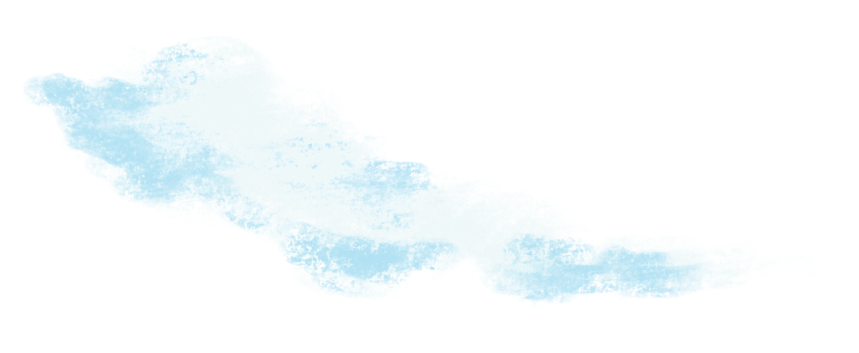
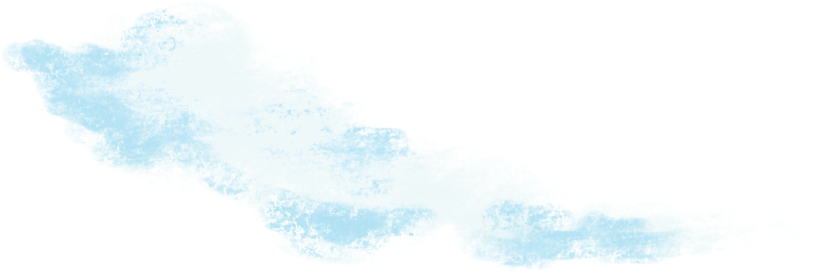
レスポンシブ対応

diff --git a/css/style.css b/css/style.css
@@ -286,31 +286,107 @@
     .zentai {
         width: 100%;
         position: relative;
+        height: 100%;
     }
     .background {
-        width: 100%;
-    }
-    .cloud-top-right {
-        position: absolute;
-    }
-    .museum {
-        padding: 0;
         width: 100%;
         position: absolute;
         bottom: 0;
     }
-    .button {
-        width: 30%;
+    .cloud-top-right {
         position: absolute;
-        bottom: 3%;
+        width: 40%;
+        top: 0;
+        right: 0;
+        animation: top-right 2s infinite;
+        animation-delay: 0s;
+    }
+    @keyframes top-right {
+        0% {
+            transform: translateY(0)
+        }
+        50% {
+            transform: translateY(-10px)
+        }
+        100% {
+            transform: translateY(0)
+        }
+    }
+    .cloud-top-left {
+        position: absolute;
+        width: 50%;
+        top: 10%;
+        left: 0;
+        animation: top-right 3s infinite;
+        animation-delay: 0s;
+    }
+    .cloud-bottom-right {
+        position: absolute;
+        width: 30%;
+        top: 35%;
+        right: 12%;
+        animation: top-right 4s infinite;
+        animation-delay: 0s;
+    }
+    .cloud-bottom-left {
+        position: absolute;
+        width: 40%;
+        top: 50%;
+        left: 0;
+        animation: top-right 5s infinite;
+        animation-delay: 0s;
+    }
+    .museum {
+        padding: 0;
+        width: 70%;
+        position: absolute;
+        bottom: 11%;
+        left: 50%;
+        transform: translateX(-50%);
+        -webkit-transform: translateX(-50%);
+        -ms-transform: translateX(-50%);
+    }
+    .kanban {
+        /* opacity: 0; */
+        padding: 0;
+        width: 36%;
+        position: absolute;
+        bottom: 22.7%;
+        left: 50%;
+        transform: translateX(-50%);
+        -webkit-transform: translateX(-50%);
+        -ms-transform: translateX(-50%);
+        animation: kanban 2s infinite;
+    }
+    @keyframes kanban {
+        0% {
+            filter: brightness(1);
+        }
+        20% {
+            filter: brightness(1.2);
+        }
+        40% {
+            filter: brightness(1);
+        }
+        60% {
+            filter: brightness(1.2);
+        }
+        100% {
+            filter: brightness(1);
+        }
+    }
+    .button {
+        width: 20%;
+        position: absolute;
+        bottom: 2%;
         left: 50%;
         transform: translateX(-50%);
     }
     .pricetar {
         position: absolute;
         bottom: 10%;
-        left: 70%;
-        width: 10%;
+        left: 55%;
+        width: 8%;
     }
     .fukidashi {
         position: absolute;
@@ -331,17 +407,6 @@
         -o-transition: 0.1s ease-in-out;
         transition: 0.1s ease-in-out;
     }
-    .transition-animation {
-        transform: scale(3.0);
-    }
-    @keyframes fadeInAnime {
-        0% {
-            transform: scale(1.0);
-        }
-        100% {
-            transform: scale(1.5);
-        }
-    }
 }
 
 
@@ -360,6 +425,7 @@
         padding: 0;
         margin: 0;
         user-select: none;
+        overflow: hidden;
     }
     .zentai {
         width: 100%;
@@ -367,9 +433,14 @@
         position: relative;
     }
     .museum {
-        width: 100%;
+        padding: 0;
+        width: 140%;
         position: absolute;
-        bottom: 10%;
+        bottom: 11%;
+        left: 50%;
+        transform: translateX(-50%);
+        -webkit-transform: translateX(-50%);
+        -ms-transform: translateX(-50%);
     }
     .button {
         width: 60%;
@@ -382,6 +453,34 @@
         width: 100%;
         position: absolute;
         bottom: 0;
+    }
+    .cloud-top-right {
+        width: 70%;
+        position: absolute;
+        top: 0;
+        right: 0;
+    }
+    .cloud-top-left {
+        width: 45%;
+        position: absolute;
+        top: 20%;
+        left: 0;
+    }
+    .cloud-bottom-right {
+        position: absolute;
+        width: 50%;
+        top: 35%;
+        right: 12%;
+        animation: top-right 4s infinite;
+        animation-delay: 0s;
+    }
+    .cloud-bottom-left {
+        position: absolute;
+        width: 60%;
+        top: 50%;
+        left: 0;
+        animation: top-right 5s infinite;
+        animation-delay: 0s;
     }
     .pricetar {
         position: absolute;

diff --git a/index.html b/index.html
@@ -18,36 +18,62 @@
         <div class="bird -type_3"></div>
         <!-- 鳥のアニメーション終わり -->
 
+        <!-- 右上雲 -->
+        <picture>
+            <source srcset="" media="(max-width: 750px)">
+            <img src="../プライスターミュージアム/images/雲_右上.png" class="cloud-top-right">
+        </picture>
+        <!-- 左上雲 -->
+        <picture>
+            <source srcset="" media="(max-width: 750px)">
+            <img src="../プライスターミュージアム/images/雲_左上.png" class="cloud-top-left">
+        </picture>
+        <!-- 右下雲 -->
+        <picture>
+            <source srcset="" media="(max-width: 750px)">
+            <img src="../プライスターミュージアム/images/雲_右下.png" class="cloud-bottom-right">
+        </picture>
+        <!-- 左下雲 -->
+        <picture>
+            <source srcset="" media="(max-width: 750px)">
+            <img src="../プライスターミュージアム/images/雲_左下.png" class="cloud-bottom-left">
+        </picture>
         <!-- 野原 -->
         <picture>
             <source srcset="../プライスターミュージアム/images/smartphone/草_スマホ.png" class="background-smartphone" media="(max-width: 959px)">
             <img src="../プライスターミュージアム/images/草.png" class="d-block mx-auto background">
         </picture>
         <!-- 野原 -->
+        <!-- 青空 -->
+        <img src="../プライスターミュージアム/images/背景.png" class="" style="height: 100%; width: 100%;">
+        <!-- 青空 -->
         <!-- ミュージアム -->
-        <picture>
-            <source srcset="../プライスターミュージアム/images/smartphone/ミュージアム_スマホ.png" class="museum-smartphone" media="(max-width: 959px)">
-            <img src="../プライスターミュージアム/images/ミュージアム.png" class="museum" id="museum">
-        </picture>
+        <img src="../プライスターミュージアム/images/ミュージアム.png" class="museum" id="museum">
         <!-- ミュージアム -->
+
+        <!-- <img src="../プライスターミュージアム/images/pricetar-museum.png" class="kanban"> -->
+
         <!-- ボタン -->
         <a href="../プライスターミュージアム/load.html"><img src="../プライスターミュージアム/images/button-fix.png" class="button" id="button"></a>
         <!-- ボタン -->
         <!-- プライスターくん -->
         <img src="../プライスターミュージアム/images/プライスターくん_ミュージアム.png" class="text__bound pricetar">
         <!-- プライスターくん -->
-        <!-- 吹き出し -->
-        <!-- <div class="balloon4 text__bound fukidashi">
-            <p>プライスターミュージアムへようこそ！！</p>
-            プライスターミュージアムへようこそ
-        </div> -->
-        <!-- 吹き出し -->
+
     </div>
 </body>
 
 </html>
-<!-- 
-<picture>
+
+<!-- <picture>
     <source srcset="../test/images/ミュージアム.png" media="(max-width: 750px)">
     <img src="../test/images/ボタン.png">
 </picture> -->
+
+
+<!-- 吹き出し -->
+<!-- <div class="balloon4 text__bound fukidashi">
+            <p>プライスターミュージアムへようこそ！！</p>
+            プライスターミュージアムへようこそ
+        </div> -->
+<!-- 吹き出し -->
